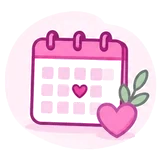
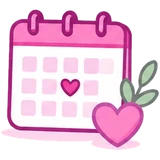
Agenda: íconos del menú completos, flechas con el dibujo de la hoja, agujas y más íconos (#493)
* Agenda: se quitan los fondos Flores, Hojas y Madejas (queda solo Liso) y se preparan fondos doodle de ejemplo

Claude-Session: https://claude.ai/code/session_01U9SAsfVct6L94yoocG63si

* Agenda: íconos del menú sin recuadro (completos), flechas de hoja con el dibujo de la hoja, ícono de agujas y más íconos de botones

Claude-Session: https://claude.ai/code/session_01U9SAsfVct6L94yoocG63si

---------

diff --git a/js/agenda/iconos.js b/js/agenda/iconos.js
@@ -42,9 +42,9 @@
 
   function clave(texto) { var cp = texto.codePointAt(0); return cp.toString(16).toUpperCase(); }
   /* Íconos dibujados por Sara (31-oct-2026) para los botones de acción: si la acción tiene dibujo se usa la imagen; las demás siguen con el ícono de línea */
-  var IMG = { papelera: 'eliminar', mas: 'agregar', imprimir: 'imprimir', bajar: 'descargar', subir: 'subir', calendario: 'calendario', mic: 'dictar', lapiz: 'lapiz', nube: 'nube', lupa: 'buscar', reloj: 'reloj', alerta: 'alerta', moneda: 'moneda', candado: 'candado', borrador: 'borrador', deshacer: 'deshacer', paleta: 'paleta', camara: 'camara', estrella: 'estrella', sol: 'bombilla', etiqueta: 'promo', hoja: 'documento' };
+  var IMG = { papelera: 'eliminar', mas: 'agregar', imprimir: 'imprimir', bajar: 'descargar', subir: 'subir', calendario: 'calendario', mic: 'dictar', lapiz: 'lapiz', nube: 'nube', lupa: 'buscar', reloj: 'reloj', alerta: 'alerta', moneda: 'moneda', candado: 'candado', borrador: 'borrador', deshacer: 'deshacer', paleta: 'paleta', camara: 'camara', estrella: 'estrella', sol: 'bombilla', etiqueta: 'promo', hoja: 'documento', llave: 'gancho', ovillo: 'ovillo', regalo: 'regalo', camion: 'camion', caja: 'camion', grafica: 'grafica', recibo: 'recibo', bolsa: 'bolsa' };
   function svg(nombre, grande) {
-    if (IMG[nombre] && !grande) { var im = document.createElement('img'); im.src = '/img/agenda/menu/btn-' + IMG[nombre] + '.webp?v=5'; im.className = 'ic-l ic-img'; im.alt = ''; im.setAttribute('aria-hidden', 'true'); im.width = 28; im.height = 28; im.decoding = 'async'; return im; }
+    if (IMG[nombre] && !grande) { var im = document.createElement('img'); im.src = '/img/agenda/menu/btn-' + IMG[nombre] + '.webp?v=6'; im.className = 'ic-l ic-img'; im.alt = ''; im.setAttribute('aria-hidden', 'true'); im.width = 28; im.height = 28; im.decoding = 'async'; return im; }
     var s = document.createElementNS('http://www.w3.org/2000/svg', 'svg'); s.setAttribute('viewBox', '0 0 24 24'); s.setAttribute('class', 'ic-l' + (grande ? ' ic-l-g' : '')); s.setAttribute('aria-hidden', 'true'); s.setAttribute('focusable', 'false');
     var p = document.createElementNS('http://www.w3.org/2000/svg', 'path'); p.setAttribute('d', P[nombre]); s.appendChild(p); return s;
   }
@@ -69,13 +69,24 @@
     Array.prototype.forEach.call(l.options, function (o) { var t = o.textContent.replace(RE, ''); if (t !== o.textContent) o.textContent = t; });
   }
   var espera = 0;
-  function pasada() { espera = 0; zona.querySelectorAll(BLANCO).forEach(procesar); limpiarLista(); var a = document.getElementById('menu-hojas-actual'); if (a) { var t = a.textContent.replace(RE, ''); if (t !== a.textContent) a.textContent = t; } }
+  function pasosHoja() {
+    if (typeof HOJAS_IMG === 'undefined') return;
+    var enl = document.querySelectorAll('#menu-hojas-lista [data-hoja]'), mapa = {};
+    Array.prototype.forEach.call(enl, function (a) { mapa[limpioN(a.textContent)] = a.dataset.hoja; });
+    zona.querySelectorAll('.hojas-pasos .paso-ant, .hojas-pasos .paso-sig').forEach(function (b) {
+      if (b.dataset.icHoja) return; var g = b.querySelector('.ic-l'); if (!g) return;
+      var t = limpioN(b.textContent.replace(/Siguiente hoja|Hoja anterior|[←→]/g, '')); var id = mapa[t]; if (!id || !HOJAS_IMG[id]) return;
+      var im = hoja(id, ''); im.className = 'ic-hoja ic-paso'; im.width = 28; im.height = 28; g.replaceWith(im); b.dataset.icHoja = '1';
+    });
+  }
+  function limpioN(t) { return String(t || '').replace(RE, '').replace(/\s+/g, ' ').trim(); }
+  function pasada() { espera = 0; zona.querySelectorAll(BLANCO).forEach(procesar); pasosHoja(); limpiarLista(); var a = document.getElementById('menu-hojas-actual'); if (a) { var t = a.textContent.replace(RE, ''); if (t !== a.textContent) a.textContent = t; } }
   new MutationObserver(function () { if (!espera) espera = setTimeout(pasada, 60); }).observe(zona, { childList: true, subtree: true });
   var lista = document.getElementById('selector-hoja-lista'); if (lista) new MutationObserver(function () { limpiarLista(); }).observe(lista, { childList: true });
   pasada();
   /* de(texto): el ícono de línea que corresponde al emoji con que empieza un texto (para las tarjetas de la vista de sección); si no hay, el de «hoja» */
   /* Íconos dibujados de las hojas (31-oct-2026, diseño de Sara): hoja(id, texto) devuelve el dibujo de la hoja o, si aún no lo tiene, el ícono de línea */
-  var HOJAS_IMG = { 'indice-agenda': 1, 'planeador-dia': 1, 'portada-agenda': 1, 'aprende-compra': 1, 'panel-agenda': 1, 'tablero-agenda': 1, 'vision-anio': 1, 'prioridades-mes': 1, 'ficha-proyecto': 1, 'semana-tejiendo': 1, 'proyectos-fila': 1, 'coleccion-patrones': 1, 'anio-tejiendo': 1, 'lo-que-aprendi': 1, 'mis-ideas': 1, 'disena-patron': 1, 'prendas-medida': 1, 'hoja-puntos': 1, 'inventario-lanas': 1, 'lista-compras': 1, 'control-pedidos': 1, 'mis-clientas': 1, 'ventas-mes': 1, 'catalogo-precios': 1, 'ferias-mercados': 1, 'contactos': 1, 'gastos-negocio': 1, 'fin-negocio': 1, 'fin-resumen': 1, 'fin-movimientos': 1, 'fin-presupuesto': 1, 'fin-fijos': 1, 'fin-tcredito': 1, 'fin-analisis': 1, 'calendario-anual': 1, 'fechas-especiales': 1, 'diario-tejido': 1, 'registro-pausas': 1 };
-  function hoja(id, texto) { if (HOJAS_IMG[id]) { var im = document.createElement('img'); im.src = '/img/agenda/hojas/' + id + '.webp?v=2'; im.alt = ''; im.className = 'ic-hoja'; im.width = 56; im.height = 56; im.setAttribute('aria-hidden', 'true'); im.decoding = 'async'; return im; } return window.lrIconos.de(texto); }
+  var HOJAS_IMG = { 'indice-agenda': 1, 'planeador-dia': 1, 'portada-agenda': 1, 'aprende-compra': 1, 'panel-agenda': 1, 'tablero-agenda': 1, 'vision-anio': 1, 'prioridades-mes': 1, 'ficha-proyecto': 1, 'semana-tejiendo': 1, 'proyectos-fila': 1, 'coleccion-patrones': 1, 'anio-tejiendo': 1, 'lo-que-aprendi': 1, 'mis-ideas': 1, 'disena-patron': 1, 'prendas-medida': 1, 'hoja-puntos': 1, 'inventario-lanas': 1, 'lista-compras': 1, 'control-pedidos': 1, 'mis-clientas': 1, 'ventas-mes': 1, 'catalogo-precios': 1, 'ferias-mercados': 1, 'contactos': 1, 'gastos-negocio': 1, 'mis-agujas': 1, 'fin-negocio': 1, 'fin-resumen': 1, 'fin-movimientos': 1, 'fin-presupuesto': 1, 'fin-fijos': 1, 'fin-tcredito': 1, 'fin-analisis': 1, 'calendario-anual': 1, 'fechas-especiales': 1, 'diario-tejido': 1, 'registro-pausas': 1 };
+  function hoja(id, texto) { if (HOJAS_IMG[id]) { var im = document.createElement('img'); im.src = '/img/agenda/hojas/' + id + '.webp?v=3'; im.alt = ''; im.className = 'ic-hoja'; im.width = 56; im.height = 56; im.setAttribute('aria-hidden', 'true'); im.decoding = 'async'; return im; } return window.lrIconos.de(texto); }
   window.lrIconos = { hoja: hoja, pasada: pasada, por: function (n) { return svg(P[n] ? n : 'hoja', false); }, de: function (t) { var m = String(t || '').match(RE); var n = m && DE[clave(m[2])]; return svg(n && !QUITAR[clave(m[2])] ? n : 'hoja', false); } };
 })();

diff --git a/js/agenda/portada.js b/js/agenda/portada.js
@@ -15,11 +15,11 @@
     verde:   { n: 'Verde',   base: '#E8F7EE', a: '#8FD3A8', b: '#3FAE73', c: '#FFFFFF', h: '#F7B3D4' },
     durazno: { n: 'Durazno', base: '#FFF0E1', a: '#F9C48B', b: '#F0933B', c: '#FFFFFF', h: '#9BD3B0' }
   };
-  var FONDOS = { flores: 'Flores', hojas: 'Hojas', madejas: 'Madejas', liso: 'Liso' };   // «Rosina y amigos» y «Ovejitas» se quitaron el 31-oct-2026 (pedido de Sara)
+  var FONDOS = { liso: 'Liso' };   // Flores, Hojas y Madejas se quitaron el 31-oct-2026 (pedido de Jennifer: «de señora»); vendrán fondos modernos
+  /* antes: flores, hojas, madejas */   // «Rosina y amigos» y «Ovejitas» se quitaron el 31-oct-2026 (pedido de Sara)
   var IMAGENES = {};
-  ['flores', 'hojas', 'madejas'].forEach(function (k) { IMAGENES[k] = '/img/agenda/fondo-' + k + '.webp?v=4'; });
   function pintar() {
-    var d = N.datos(), f = d['ag-portada-fondo'] && FONDOS[d['ag-portada-fondo']] ? d['ag-portada-fondo'] : 'flores', c = d['ag-portada-color'] && COLORES[d['ag-portada-color']] ? d['ag-portada-color'] : 'rosa';
+    var d = N.datos(), f = d['ag-portada-fondo'] && FONDOS[d['ag-portada-fondo']] ? d['ag-portada-fondo'] : 'liso', c = d['ag-portada-color'] && COLORES[d['ag-portada-color']] ? d['ag-portada-color'] : 'rosa';
     var p = COLORES[c], fondo = hoja.querySelector('.portada-fondo');
     hoja.dataset.fondo = f; hoja.dataset.color = c; hoja.style.setProperty('--pc-base', p.base); hoja.style.setProperty('--pc-a', p.a); hoja.style.setProperty('--pc-b', p.b);
     fondo.textContent = ''; fondo.style.backgroundImage = IMAGENES[f] ? 'url("' + IMAGENES[f] + '")' : '';

diff --git a/agenda-rosina.html b/agenda-rosina.html
@@ -59,7 +59,7 @@ j=d.createElement(s),dl=l!='dataLayer'?'&l='+l:'';j.async=true;j.src=
 <link rel="stylesheet" href="/css/agenda-panel.css?v=14">
 <link rel="stylesheet" href="/css/agenda-responsive.css?v=15">
 <link rel="stylesheet" href="/css/agenda-editorial.css?v=18">
-<link rel="stylesheet" href="/css/agenda-colores.css?v=21">
+<link rel="stylesheet" href="/css/agenda-colores.css?v=23">
 <link rel="stylesheet" href="/css/agenda-frambuesa.css?v=11">
 <link rel="stylesheet" href="/css/agenda-panel-vida.css?v=28">
 <link rel="stylesheet" href="/css/agenda-movil.css?v=14">
@@ -4197,14 +4197,14 @@ import { haySesionGuardada, obtenerCliente } from '/js/cuenta.js';
 <script src="/js/agenda/pedidos.js?v=1" defer></script>
 <script src="/js/agenda/conexiones.js?v=4" defer></script>
 <script src="/js/agenda/anio.js?v=1" defer></script>
-<script src="/js/agenda/portada.js?v=5" defer></script>
+<script src="/js/agenda/portada.js?v=6" defer></script>
 <script src="/js/agenda/voz.js?v=2" defer></script>
 <script src="/js/agenda/patron.js?v=1" defer></script>
 <script src="/js/agenda/tinta.js?v=1" defer></script>
 <script src="/js/agenda/planeador.js?v=2" defer></script>
 <script src="/js/agenda/vacios.js?v=4" defer></script>
 <script src="/js/agenda/panel.js?v=26" defer></script>
-<script src="/js/agenda/iconos.js?v=18" defer></script>
+<script src="/js/agenda/iconos.js?v=20" defer></script>
 <script src="/js/agenda/colores-seccion.js?v=3" defer></script>
 <script src="/js/agenda/menu-lateral.js?v=2" defer></script>
 <script src="/js/agenda/metas-ventas.js?v=4" defer></script>

diff --git a/css/agenda-colores.css b/css/agenda-colores.css
@@ -62,3 +62,8 @@ body .pestana img.ic-dibujo { width: 40px; height: 40px; object-fit: contain; fl
 #agenda .pn-consejo-img { position: absolute; right: 14px; top: 10px; width: 72px; height: 72px; object-fit: contain; pointer-events: none; }
 @media (max-width: 520px) { #agenda .pn-consejo-img { width: 52px; height: 52px; right: 8px; top: 8px; } }
 @media print { #agenda .pn-consejo-img { display: none; } }
+
+/* Flechas «Hoja anterior / Siguiente hoja» con el dibujo de la hoja de destino, y herramientas (31-oct-2026, diseño de Jennifer) */
+#agenda .ic-hoja.ic-paso { width: 28px; height: 28px; display: inline-block; vertical-align: middle; margin: 2px 0; }
+#agenda .hojas-pasos button .ic-l.ic-img { width: 1.6em; height: 1.6em; }
+#agenda .hojas-pasos .ic-hoja.ic-paso { width: 34px; height: 34px; padding: 3px; background: #fff; border-radius: 50%; box-shadow: 0 0 0 1.5px rgba(200, 27, 109, .25); }

diff --git a/herramientas/pruebas/probar_agenda_nuevas.py b/herramientas/pruebas/probar_agenda_nuevas.py
@@ -27,20 +27,9 @@ with sync_playwright() as p:
     ctx = contexto(b, 390, datos={'ag-duena': 'Sara'}); pg = abrir(ctx, 'portada-agenda')
     T.v('portada: sale el nombre escrito en «Esta agenda es de»', pg.inner_text('#portada-nombre-vista') == 'Sara' and pg.input_value('#portada-nombre') == 'Sara')
     fondos = pg.evaluate("[...document.querySelectorAll('#portada-fondos button')].map(b => b.textContent)")
-    T.v('hay fondos de flores, hojas, madejas y liso (sin Rosina y amigos ni ovejitas)', fondos == ['Flores', 'Hojas', 'Madejas', 'Liso'], fondos)
-    pg.click('#portada-fondos button:has-text("Hojas")'); pg.wait_for_timeout(200)
-    BORDE = "getComputedStyle(document.querySelector('#indice-agenda'), '::before').borderImageSource"
-    ANCHO = "parseFloat(getComputedStyle(document.querySelector('#indice-agenda'), '::before').borderTopWidth)"
-    for etiqueta, clave in (('Flores', 'flores'), ('Hojas', 'hojas'), ('Madejas', 'madejas')):
-        pg.click('#portada-fondos button:has-text("%s")' % etiqueta); pg.wait_for_timeout(250)
-        T.v('con «%s» la portada lo usa, se guarda y las hojas NO llevan cinta' % etiqueta, pg.evaluate("document.getElementById('portada-hoja').dataset.fondo") == clave and guardado(pg).get('ag-portada-fondo') == clave and ('fondo-%s.webp' % clave) in pg.evaluate("document.querySelector('.portada-fondo').style.backgroundImage") and pg.evaluate("document.querySelector('#agenda').dataset.fondoHojas") == clave and pg.evaluate("getComputedStyle(document.querySelector('#indice-agenda'), '::before').display") == 'none')
+    T.v('solo queda el fondo liso (Flores, Hojas y Madejas se quitaron el 31-oct-2026)', fondos == ['Liso'], fondos)
     pg.click('#portada-fondos button:has-text("Liso")'); pg.wait_for_timeout(200)
-    T.v('con «Liso» no hay fondo de pantalla', pg.evaluate("getComputedStyle(document.body, '::before').content") == 'none')
-    T.v('con «Liso» las hojas quedan blancas, sin cinta, y la portada sin imagen', pg.evaluate("document.querySelector('#agenda').dataset.fondoHojas") is None and pg.evaluate("document.querySelector('.portada-fondo').style.backgroundImage") == '' and pg.evaluate(BORDE) in ('none', ''))
-    pg.click('#portada-fondos button:has-text("Hojas")'); pg.wait_for_timeout(200)
-    pg.click('#portada-fondos button:has-text("Madejas")'); pg.wait_for_timeout(200)
-    T.v('el estilo elegido queda de fondo de pantalla de la agenda', 'madejas' in pg.evaluate("getComputedStyle(document.body, '::before').backgroundImage"))
-    T.v('las imágenes de los fondos existen (portada, miniatura y cinta)', all(os.path.exists(os.path.join(os.path.dirname(os.path.abspath(__file__)), '..', '..', 'img', 'agenda', 'fondo-%s%s.webp' % (f, suf))) for f in ('flores', 'hojas', 'madejas') for suf in ('', '-mini', '-borde')) and all(os.path.exists(os.path.join(os.path.dirname(os.path.abspath(__file__)), '..', '..', 'img', 'agenda', 'pantalla-%s.webp' % f)) for f in ('flores', 'hojas', 'madejas')))
+    T.v('con «Liso» no hay fondo de pantalla ni imagen en la portada', pg.evaluate("document.querySelector('#agenda').dataset.fondoHojas") is None and pg.evaluate("document.querySelector('.portada-fondo').style.backgroundImage") == '')
     pg.click('#portada-colores button[aria-label="Lila"]'); pg.wait_for_timeout(200)
     T.v('el color también se guarda', guardado(pg).get('ag-portada-color') == 'lila' and pg.evaluate("document.getElementById('portada-hoja').dataset.color") == 'lila')
     pg.fill('#portada-nombre', 'Sara Muñoz'); pg.fill('#ag-portada-frase', 'Un punto a la vez'); pg.wait_for_timeout(300)
@@ -48,7 +37,7 @@ with sync_playwright() as p:
     T.v('la frase sale en la portada', pg.inner_text('#portada-frase-vista') == 'Un punto a la vez')
     cap(pg, 'nuevas-portada-390.png')
     pg.reload(); pg.wait_for_timeout(1500)
-    T.v('al volver a entrar la portada sigue como se dejó', pg.evaluate("document.getElementById('portada-hoja').dataset.fondo") == 'madejas' and pg.evaluate("document.getElementById('portada-hoja').dataset.color") == 'lila')
+    T.v('al volver a entrar la portada sigue como se dejó', pg.evaluate("document.getElementById('portada-hoja').dataset.fondo") == 'liso' and pg.evaluate("document.getElementById('portada-hoja').dataset.color") == 'lila')
     pg.emulate_media(media='print'); cap(pg, 'nuevas-portada-impresion.png')
     ancho = pg.evaluate("document.querySelector('#portada-hoja').getBoundingClientRect().width"); T.v('al imprimir la portada ocupa todo el ancho', ancho > 300, ancho)
     pg.emulate_media(media='screen')

diff --git a/herramientas/generar_fondos_doodle.py b/herramientas/generar_fondos_doodle.py
@@ -1,0 +1,43 @@
+#!/usr/bin/env python3
+"""Fondos de pantalla de la agenda en estilo «doodle» (31-oct-2026, pedido de Jennifer: algo moderno como el fondo de WhatsApp/Telegram).
+Genera en img/agenda/fondos/ baldosas SVG que se repiten: dibujos de crochet en línea fina (rosa, lila, azul), puntos y cuadrícula.
+Uso: python3 herramientas/generar_fondos_doodle.py"""
+import os
+RAIZ = os.path.join(os.path.dirname(os.path.abspath(__file__)), '..', 'img', 'agenda', 'fondos')
+F = {  # dibujos en una cuadrícula de 24 x 24 (solo línea)
+ 'corazon': 'M12 20.5s-8-4.8-8-10.5a4.4 4.4 0 018-2.4A4.4 4.4 0 0120 10c0 5.7-8 10.5-8 10.5z',
+ 'estrella': 'M12 3l2.6 5.6 6.1.8-4.4 4.2 1.1 6L12 16.7 6.6 19.600l1.1-6L3.300 9.400l6.100-.8z',
+ 'ovillo': 'M12 4a8 8 0 100 16 8 8 0 000-16zM5 9.500c4 1.200 9 1.200 14 0M4.500 14.500c5 1.500 10 1.500 15 0M9.500 4.500c-1.200 5 0 10 3 15M19 17c2 .8 3 2.600 1.500 4',
+ 'gancho': 'M4 21L16.500 6.500M16.500 6.500c1.400-2 4.200-1.500 4.200.6 0 1.600-1.800 2.200-3 1.200',
+ 'flor': 'M12 9.500a2.500 2.500 0 100 5 2.500 2.500 0 000-5zM12 3.500a3 3 0 010 6M12 14.500a3 3 0 010 6M3.500 12a3 3 0 016 0M14.500 12a3 3 0 016 0',
+ 'tijeras': 'M7 4.500a2.500 2.500 0 100 5 2.500 2.500 0 000-5zM7 14.500a2.500 2.500 0 100 5 2.500 2.500 0 000-5zM9 9l12 8.500M9 15L21 6.500',
+ 'nube': 'M7 18a4 4 0 010-8 5.500 5.500 0 0110.500 1A3.500 3.500 0 0117 18H7z',
+ 'destello': 'M12 3v18M3 12h18M6 6l12 12M18 6L6 18',
+ 'agujas': 'M5 4l14 14M19 4L5 18M3.500 3.500a1 1 0 100 .01M20.500 3.500a1 1 0 100 .01',
+ 'lazo': 'M12 12c-3-5-8-5-8-2s5 4 8 2zM12 12c3-5 8-5 8-2s-5 4-8 2zM12 12l-3 8M12 12l3 8',
+ 'luna': 'M20 14.500A8.500 8.500 0 019.500 4 8.500 8.500 0 1020 14.500z',
+ 'cinta': 'M3 9h18v6H3zM7 9v3M11 9v2M15 9v3M19 9v2',
+}
+# (dibujo, x, y, tamaño, giro) en una baldosa de 320 x 320
+POS = [('ovillo', 28, 30, 38, -12), ('corazon', 120, 18, 28, 14), ('gancho', 200, 36, 40, 8), ('estrella', 280, 22, 26, -10),
+       ('flor', 14, 112, 32, 0), ('tijeras', 96, 100, 34, -18), ('nube', 178, 112, 36, 6), ('destello', 262, 108, 24, 0),
+       ('luna', 36, 196, 28, 10), ('agujas', 112, 190, 34, 0), ('lazo', 196, 196, 34, -8), ('corazon', 276, 190, 24, 12),
+       ('cinta', 18, 268, 36, -6), ('estrella', 104, 276, 24, 14), ('ovillo', 176, 270, 34, 16), ('flor', 258, 270, 30, -8)]
+def doodle(nombre, fondo, trazo):
+    g = []
+    for d, x, y, s, r in POS:
+        k = s / 24.0
+        g.append('<g transform="translate(%s %s) rotate(%s %s %s) scale(%.3f)"><path d="%s"/></g>' % (x, y, r, 12 * k, 12 * k, k, F[d]))
+    svg = ('<svg xmlns="http://www.w3.org/2000/svg" width="320" height="320" viewBox="0 0 320 320"><rect width="320" height="320" fill="%s"/>'
+           '<g fill="none" stroke="%s" stroke-width="%.2f" stroke-linecap="round" stroke-linejoin="round">%s</g></svg>') % (fondo, trazo, 1.7, ''.join(g))
+    open(os.path.join(RAIZ, nombre + '.svg'), 'w').write(svg)
+def puntos(nombre, fondo, punto):
+    svg = '<svg xmlns="http://www.w3.org/2000/svg" width="28" height="28" viewBox="0 0 28 28"><rect width="28" height="28" fill="%s"/><circle cx="14" cy="14" r="1.5" fill="%s"/></svg>' % (fondo, punto)
+    open(os.path.join(RAIZ, nombre + '.svg'), 'w').write(svg)
+def cuadricula(nombre, fondo, linea):
+    svg = '<svg xmlns="http://www.w3.org/2000/svg" width="32" height="32" viewBox="0 0 32 32"><rect width="32" height="32" fill="%s"/><path d="M0 .5H32M.5 0V32" stroke="%s" stroke-width="1" fill="none"/></svg>' % (fondo, linea)
+    open(os.path.join(RAIZ, nombre + '.svg'), 'w').write(svg)
+os.makedirs(RAIZ, exist_ok=True)
+doodle('doodle-rosa', '#FFF1F7', '#F4A9C9'); doodle('doodle-lila', '#F4F4FF', '#B4B8FA'); doodle('doodle-azul', '#EFF7FF', '#98C9F5')
+puntos('puntos', '#FFF6F9', '#F0B3CE'); cuadricula('cuadricula', '#FFF8FB', '#F7D3E3')
+print('listo')
